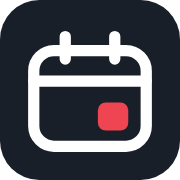
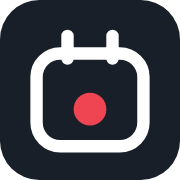
perf: 건수를 세려고 전체 행을 불러오던 것 + 캐시
목록 한 번 여는 데 500ms 가 들었다. 재 보니 DB 왕복이 아니라 우리가
만든 낭비였다.

    total = len(db.execute(stmt).scalars().all())

스무 건을 보여주려고 조건에 맞는 콘텐츠 전부를 ORM 객체로 만들어
놓고 길이만 쟀다. 284건이면 284개를 만들었다 버린 셈이다. 늘어날수록
나빠지는 종류의 낭비라 지금 잡는다. 뉴스 목록도 같았다.

COUNT 로 바꿨다. 세기만 할 때는 세기만 한다.

--- 캐시 ---

상세 화면은 텔레그램 링크가 여는 화면이다. 아침에 브리핑을 받고 누르는
그 한 번이 첫인상인데, force-dynamic 이라 방문마다 Vercel → Render →
Neon 을 왕복했다. 내용은 하루 한 번 배치가 돌 때만 바뀌므로 5분 캐시로
둔다. 같은 링크를 여러 사람이 눌러도 첫 사람만 왕복한다.
오늘 화면은 2분.

정정본이 몇 분 늦게 보일 수 있다. 감수한다 — 정정은 드물고 매번
왕복하는 대가가 훨씬 크다.

--- 절전 ---

Render 무료 티어는 15분 무요청이면 잔다. 깨우는 시간대가 09시부터였는데
브리핑을 07시로 옮겨 놓고 그건 안 고쳤다. 링크를 받자마자 누르는 사람이
30~60초를 그대로 기다리게 된다. 06시부터 깨운다.

하루 14시간 x 30일 = 420 인스턴스시간. 무료 한도 750 안이다.

Changed region(s): [[0.1389, 0.1667, 0.8611, 0.8611], [0.3333, 0.3056, 0.6667, 0.3611]]

diff --git a/components/Logo.tsx b/components/Logo.tsx
@@ -1,17 +1,19 @@
 /**
  * 달력 · 마감.
  *
- * 앞서 두 번 갈아엎었다. 검인(체크)은 어디에나 있는 모양이었고,
- * 말풍선은 메신저로 읽혔다. 둘 다 이 서비스의 것이 아니었다.
+ * 로고를 세 번 갈아엎고 나서야 여기 왔다. 검인(체크)은 어디에나 있는
+ * 모양이었고, 말풍선은 메신저로 읽혔다. 둘 다 이 서비스의 것이 아니었다.
  *
  * **세무는 날짜 사업이다.** 실무자의 하루를 굴리는 것은 신고 기한이고,
  * 이 서비스가 파는 것도 "언제까지 뭘 해야 하는지 남보다 먼저 아는 것"
- * 이다. 그래서 달력이고, 한 칸이 붉게 찍혀 있다 — 그게 마감일이다.
+ * 이다. 그래서 달력이고, 붉은 점 하나가 그 마감일이다.
  *
- * 16px 로 줄여도 붉은 칸은 남는다. ₩ 나 稅 는 그 크기에서 획이 뭉개져
- * 무슨 글자인지 알 수 없었다. 로고는 작을 때 살아남아야 로고다.
+ * **격자를 그리지 않는다.** 달력 아이콘에 흔히 들어가는 칸 나눔을 빼고
+ * 점 하나만 남겼다. 두 가지를 얻었다 — 흔한 달력 아이콘과 달라 보이고,
+ * 16px 로 줄여도 그 점은 끝까지 남는다. ₩ 나 稅 는 그 크기에서 획이
+ * 뭉개져 무슨 글자인지 알 수 없었다. 로고는 작을 때 살아남아야 로고다.
  *
- * 테두리는 `currentColor` 라 바탕을 따라가고, **붉은 칸만 고정색**이다.
+ * 테두리는 `currentColor` 라 바탕을 따라가고 **붉은 점만 고정색**이다.
  * 마감이라는 뜻이 배경색에 따라 흔들리면 안 된다.
  */
 export function Logo({ size = 28 }: { size?: number }) {
@@ -24,16 +26,11 @@ export function Logo({ size = 28 }: { size?: number }) {
       aria-hidden
       className="shrink-0"
     >
-      <rect x="4" y="7" width="24" height="21" rx="4.5" stroke="currentColor" strokeWidth="2.2" />
-      {/* 머리줄과 고리 두 개. 달력이라는 것을 이 셋이 말한다. */}
-      <path
-        d="M4 13.6h24M10.5 4v5M21.5 4v5"
-        stroke="currentColor"
-        strokeWidth="2.2"
-        strokeLinecap="round"
-      />
+      <rect x="4" y="7" width="24" height="21" rx="5.5" stroke="currentColor" strokeWidth="2.6" />
+      {/* 고리 두 개. 이것만으로 달력이 된다. */}
+      <path d="M10.5 3.8v5M21.5 3.8v5" stroke="currentColor" strokeWidth="2.6" strokeLinecap="round" />
       {/* 마감일. 이 색만 바탕을 따라가지 않는다. */}
-      <rect x="17.8" y="18" width="6.4" height="6" rx="1.7" fill="var(--danger, #ef4452)" />
+      <circle cx="16" cy="19.6" r="3.4" fill="var(--danger, #ef4452)" />
     </svg>
   );
 }

diff --git a/app/contents/[id]/page.tsx b/app/contents/[id]/page.tsx
@@ -9,7 +9,18 @@ import { ApiRequestError, publicApi } from '@/lib/api';
 import { daysUntil, effectiveLabel, formatDateTime, stripRevisionSuffix } from '@/lib/format';
 import type { PublicContentDetail, TribunalBody } from '@/lib/types';
 
-export const dynamic = 'force-dynamic';
+/*
+  **텔레그램 링크가 여는 화면이다.** 아침에 브리핑을 받고 누르는 그
+  한 번이 이 서비스의 첫인상이라, 여기가 제일 빨라야 한다.
+
+  force-dynamic 이면 방문마다 Vercel → Render → Neon 을 왕복한다.
+  그런데 내용은 하루 한 번 배치가 돌 때만 바뀐다. 5분 캐시로 두면
+  같은 링크를 여러 사람이 눌러도 첫 사람만 왕복한다.
+
+  정정본이 5분 늦게 보일 수 있다. 그건 감수한다 — 정정은 드물고,
+  매번 왕복하는 대가가 훨씬 크다.
+*/
+export const revalidate = 300;
 
 /**
  * 콘텐츠 상세 (U-03, §10.3 표준 블록).

diff --git a/app/page.tsx b/app/page.tsx
@@ -6,7 +6,11 @@ import { API_BASE, API_BASE_IS_DEFAULT, publicApi } from '@/lib/api';
 import { daysUntil, seoulToday, todayLabel } from '@/lib/format';
 import type { NewsFeed, PublicContentSummary, PublicFeed } from '@/lib/types';
 
-export const dynamic = 'force-dynamic';
+/*
+  하루 한 번 배치가 돌 때만 내용이 바뀐다. 2분 캐시로 두면 아침에
+  여러 사람이 같은 화면을 열어도 왕복은 한 번이다.
+*/
+export const revalidate = 120;
 
 /**
  * 오늘.

diff --git a/backend/app/api/v1/public.py b/backend/app/api/v1/public.py
@@ -437,7 +437,15 @@ def public_feed(
             TaxContent.application_end <= horizon,
         )
 
-    total = len(db.execute(stmt).scalars().all())
+    # **세기만 할 때는 세기만 한다.**
+    #
+    # 예전에는 `len(db.execute(stmt).scalars().all())` 였다. 스무 건을
+    # 보여주려고 조건에 맞는 콘텐츠 전부를 ORM 객체로 만들어 놓고 길이만
+    # 쟀다. 284건이면 284개를 만들었다 버린 셈이고, 목록 한 번 여는 데
+    # 500ms 가 들었다. 늘어날수록 나빠지는 종류의 낭비다.
+    total = db.execute(
+        select(func.count()).select_from(stmt.order_by(None).subquery())
+    ).scalar_one()
 
     # 중요도 → 마감 임박 → 최신 순 (FR-USR-001).
     ordered = stmt.order_by(
@@ -569,7 +577,9 @@ def public_news(
     if q:
         stmt = stmt.where(RawContent.title.ilike(f"%{q}%"))
 
-    total = len(db.execute(stmt).all())
+    total = db.execute(
+        select(func.count()).select_from(stmt.order_by(None).subquery())
+    ).scalar_one()
     rows = db.execute(
         stmt.order_by(RawContent.published_at.desc()).limit(limit).offset(offset)
     ).all()
